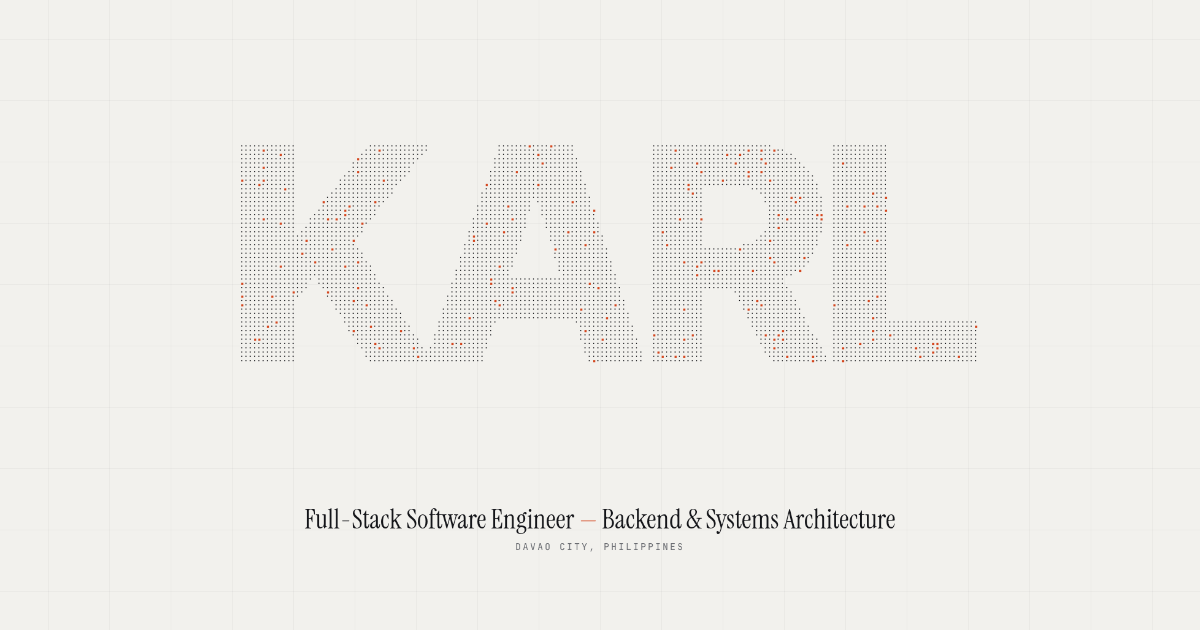
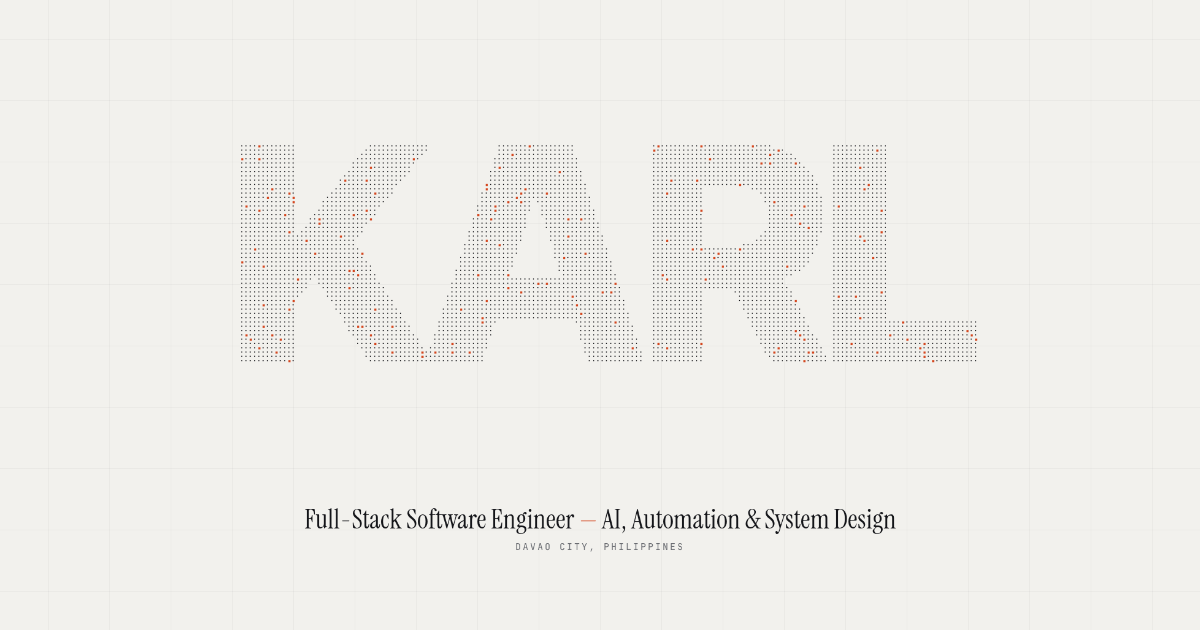
Reposition: AI, automation & system design
- Tagline, bio, particle words (SYSTEMS / AUTOMATE / AI), link previews and
  structured data now lead with AI, automation and system design
- Syncro: AI voice receptionist prototype (LiveKit, Deepgram, OpenAI tool calling)
  and the Dialogflow booking chatbot; automated multi-client delivery
- Skills regrouped: AI & Automation, System Design, Services & APIs, …

Changed region(s): [[0.4933, 0.8143, 0.74, 0.8444]]

diff --git a/js/content.js b/js/content.js
@@ -8,16 +8,16 @@
 window.CONTENT = {
   name: { first: 'Karl', middle: 'Daven', last: 'Talib', full: 'Karl Daven P. Talib' },
   role: 'Full-Stack Software Engineer',
-  focus: 'Backend & Systems Architecture',
+  focus: 'AI, Automation & System Design',
   location: 'Davao City, Philippines',
   email: 'pioloulo123@gmail.com',
   phone: '+63 916 154 2709',
 
   // words the particle name cycles through when clicked
-  words: ['KARL', 'BACKEND', 'SYSTEMS', 'TALIB'],
+  words: ['KARL', 'SYSTEMS', 'AUTOMATE', 'AI', 'TALIB'],
 
   photo: 'assets/portrait.webp',
-  bio: 'Full-stack engineer who mostly lives in the backend. I architect multi-tenant platforms, wire up APIs and webhooks, design relational data, and keep the servers running — healthcare, CRM, and business systems built on Laravel, Filament, Livewire, Next.js, React and Supabase.',
+  bio: 'Full-stack engineer who designs systems and automates the work around them. I architect multi-tenant platforms, connect them through APIs, webhooks and workflow automation, and bring AI into both the products and the way I build them — healthcare, CRM and business systems on Laravel, Filament, Next.js and Supabase.',
 
   links: {
     github: 'https://github.com/Kahariel',
@@ -46,6 +46,7 @@ window.CONTENT = {
         'Led architecture of healthcare platforms: dental practice management & diagnostic imaging',
         'Tenant-aware data access, auth, RBAC, REST APIs, webhooks, automated workflows',
         'Server-driven interfaces with Laravel, Livewire and Filament',
+        'Prototyped an AI voice receptionist that reads and manages appointments through the platform API',
         'Ran VPS infrastructure on aaPanel — deploys, databases, domains, SSL',
       ],
     },
@@ -72,13 +73,15 @@ window.CONTENT = {
   projects: [
     {
       name: 'Syncro',
-      kicker: 'Dental practice management · EHR',
+      kicker: 'Dental practice platform · EHR · AI',
       year: '2025 — now',
       role: 'Co-lead engineer',
       status: 'In production at 7 dental clinics',
-      summary: 'Web-based clinic management system for single and multi-branch dental practices — patient records, appointments, prescriptions, lab reports, billing, insurance, and SMS/email campaigns — shipped to seven clinics from one codebase.',
+      summary: 'Web-based clinic management system for single and multi-branch dental practices — patient records, appointments, prescriptions, lab reports, billing, insurance, and SMS/email campaigns — shipped to seven clinics from one codebase, with AI booking live and an AI voice receptionist in development.',
       highlights: [
-        'Branch-per-client delivery: a GitHub Actions workflow merges main into every clinic\'s branch, with a dry-run mode that checks for conflicts before pushing',
+        'Automated multi-client delivery: a GitHub Actions workflow merges main into every clinic\'s branch, with a dry-run mode that checks for conflicts before pushing',
+        'AI voice receptionist, a prototype I built: a LiveKit voice agent with Deepgram speech-to-text tuned on dental vocabulary and an OpenAI model that calls the platform API as tools to look up and manage appointments',
+        'Dialogflow booking chatbot on the clinic site — doctor lists, open slots, booking and cancellation through a Laravel webhook',
         'Four-tier subscription system (Freemium → Premium): a SubscriptionService and middleware gate features and enforce user, patient and appointment limits',
         'Company-scoped data access — middleware binds each request to a company and blocks route-model access across companies',
         'SmartChart / SmartNote: interactive tooth charting with a diagnosis-aware treatment picker and a draft → finalize workflow with permission enforcement',
@@ -87,7 +90,7 @@ window.CONTENT = {
         'Queued SMS (Twilio, Plivo) and email campaign jobs; Excel bulk import for patients, medicines and diagnoses',
       ],
       facts: [['Clinics', '7'], ['Migrations', '134'], ['Models', '60+']],
-      stack: ['Laravel', 'PHP', 'MySQL', 'Spatie Permission', 'Queues', 'DomPDF', 'Twilio', 'GitHub Actions'],
+      stack: ['Laravel', 'PHP', 'MySQL', 'OpenAI API', 'LiveKit Agents', 'Deepgram', 'Dialogflow', 'Queues', 'GitHub Actions', 'Twilio'],
       image: 'assets/projects/syncro.webp',
       live: null,
       repo: null,
@@ -118,13 +121,13 @@ window.CONTENT = {
     },
     {
       name: 'SMB Solutions CRM',
-      kicker: 'B2B & B2C CRM · built with Lovable',
+      kicker: 'CRM · AI-built with Lovable · automation',
       year: '2026',
       role: 'Full-stack engineer',
       status: null,
       summary: 'CRM supporting B2B and B2C client workflows — customer management, sales and operational processes — connected to the tools the business already runs on.',
       highlights: [
-        'Built with Lovable, with the interface wired to backend services, APIs and external platforms',
+        'Built AI-first with Lovable, with the generated interface wired to backend services, APIs and external platforms',
         'Integrated with Zapier, PandaDoc and Notion through APIs, webhooks and automated workflows',
         'Automations for data synchronisation, document workflows and process triggers that replaced manual operational work',
         'Translated business requirements into customer-management, sales and operations flows',
@@ -190,7 +193,7 @@ window.CONTENT = {
         'Firestore security rules separating public storefront reads from admin-only writes; guest orders are create-only',
         'Admin CMS for the hero slideshow and banners, drag-to-reorder with dnd-kit, and a revenue dashboard',
         'Cloudinary image delivery, EmailJS order notifications, and SEO: sitemap, robots and generated Open Graph images',
-        'Feature-branch workflow with pull-request reviews',
+        'AI-assisted development: agent guidelines (AGENTS.md / CLAUDE.md) live in the repo, alongside a feature-branch and pull-request workflow',
       ],
       facts: [['Hosting', 'Vercel'], ['Database', 'Firestore']],
       stack: ['Next.js', 'TypeScript', 'Firebase', 'Cloudinary', 'Tailwind CSS'],
@@ -236,9 +239,9 @@ window.CONTENT = {
    * The same values work as shareable links: yoursite.com/#work/syncro
    */
   tour: [
-    { at: 'index', title: 'Karl Daven Talib', text: 'Full-stack engineer, mostly backend. This site is a map — the tour drives, or drag anywhere to explore on your own.' },
+    { at: 'index', title: 'Karl Daven Talib', text: 'Full-stack engineer focused on AI, automation and system design. This site is a map — the tour drives, or drag anywhere to explore on your own.' },
     { at: 'experience', title: 'Experience', text: 'CTO at Syncro, full-stack at SMB Solutions, and freelance since 2023. The cards can be dragged around the desk.' },
-    { at: 'work/syncro', title: 'Syncro', text: 'Dental practice platform in production at 7 clinics, shipped from one codebase with automated per-clinic branches.' },
+    { at: 'work/syncro', title: 'Syncro', text: 'Dental practice platform in production at 7 clinics — automated per-clinic delivery, AI booking, and an AI voice receptionist in development.' },
     { at: 'work/one-shot-imaging', title: 'One Shot Imaging', text: 'Clinic operations with real-time handoff between the front desk and the imaging room. Live since October 2026; multi-tenant version in development.' },
     { at: 'work', title: 'Selected work', text: 'Seven projects — healthcare platforms, a CRM, a mobile app and its admin console, e-commerce and a kiosk system. Each card lists the technical details.' },
     { at: 'stack', title: 'Stack', text: 'Every tool, grouped by domain and linked to the projects that used it. Select any node to inspect it.' },
@@ -246,10 +249,12 @@ window.CONTENT = {
   ],
 
   skills: {
-    'Backend & APIs': ['PHP', 'Laravel', 'REST APIs', 'Webhooks', 'Livewire', 'Queues', 'RBAC', 'Laravel Reverb'],
-    'Frontend': ['Next.js', 'React', 'React Native', 'Expo', 'TypeScript', 'JavaScript', 'TALL Stack', 'AdminLTE', 'Filament'],
-    'Architecture & Data': ['Multi-Tenancy', 'Server-Driven UI', 'Database Design', 'MySQL', 'PostgreSQL', 'Supabase', 'Firebase'],
-    'Integrations': ['Zapier', 'PandaDoc', 'Notion', 'Third-Party APIs', 'Workflow Automation'],
-    'DevOps & Infra': ['Linux', 'Nginx', 'aaPanel', 'VPS Administration', 'Apache', 'Bash', 'Git', 'GitHub Actions'],
+    'AI & Automation': ['OpenAI API', 'LiveKit Agents', 'Deepgram', 'LLM Tool Calling', 'Dialogflow', 'AI-Assisted Development', 'Lovable', 'Workflow Automation', 'GitHub Actions'],
+    'System Design': ['Multi-Tenancy', 'Database Design', 'State Machines', 'Real-Time / WebSockets', 'Server-Driven UI', 'RBAC', 'Queues'],
+    'Services & APIs': ['PHP', 'Laravel', 'Python', 'REST APIs', 'Webhooks', 'Livewire', 'Laravel Reverb'],
+    'Frontend & Mobile': ['Next.js', 'React', 'React Native', 'Expo', 'TypeScript', 'JavaScript', 'TALL Stack', 'AdminLTE', 'Filament'],
+    'Data': ['MySQL', 'PostgreSQL', 'Supabase', 'Firebase'],
+    'Integrations': ['Zapier', 'PandaDoc', 'Notion', 'Third-Party APIs'],
+    'DevOps & Infra': ['Linux', 'Nginx', 'aaPanel', 'VPS Administration', 'Apache', 'Bash', 'Git'],
   },
 };

diff --git a/index.html b/index.html
@@ -4,7 +4,7 @@
 <meta charset="utf-8">
 <meta name="viewport" content="width=device-width, initial-scale=1">
 <title>Karl Daven Talib — Full-Stack Software Engineer</title>
-<meta name="description" content="Karl Daven Talib — full-stack software engineer focused on backend and systems architecture. Healthcare platforms, CRM and business systems with Laravel, Filament, Next.js and Supabase. Davao City, PH.">
+<meta name="description" content="Karl Daven Talib — full-stack software engineer focused on AI, automation and system design. Healthcare platforms, CRM and business systems with Laravel, Filament, Next.js and Supabase. Davao City, PH.">
 <link rel="canonical" href="https://kahariel.github.io/">
 <link rel="icon" href="favicon.svg" type="image/svg+xml">
 <meta name="theme-color" content="#f2f1ed">
@@ -13,17 +13,17 @@
 <meta property="og:type" content="profile">
 <meta property="og:site_name" content="Karl Daven Talib">
 <meta property="og:title" content="Karl Daven Talib — Full-Stack Software Engineer">
-<meta property="og:description" content="Backend & systems architecture. Healthcare platforms in production at 7 clinics, real-time clinic operations, CRM and mobile. Explore the portfolio map.">
+<meta property="og:description" content="AI, automation & system design. Healthcare platforms in production at 7 clinics, an AI voice receptionist, workflow automation, CRM and mobile. Explore the portfolio map.">
 <meta property="og:url" content="https://kahariel.github.io/">
 <meta property="og:image" content="https://kahariel.github.io/assets/og.png">
 <meta property="og:image:width" content="1200">
 <meta property="og:image:height" content="630">
-<meta property="og:image:alt" content="Karl Daven Talib — the name drawn in dots, with the role Full-Stack Software Engineer, Backend & Systems Architecture">
+<meta property="og:image:alt" content="Karl Daven Talib — the name drawn in dots, with the role Full-Stack Software Engineer, AI, Automation & System Design">
 <meta property="profile:first_name" content="Karl Daven">
 <meta property="profile:last_name" content="Talib">
 <meta name="twitter:card" content="summary_large_image">
 <meta name="twitter:title" content="Karl Daven Talib — Full-Stack Software Engineer">
-<meta name="twitter:description" content="Backend & systems architecture. Healthcare platforms, real-time clinic operations, CRM and mobile.">
+<meta name="twitter:description" content="AI, automation & system design. Healthcare platforms, AI voice agents, workflow automation, CRM and mobile.">
 <meta name="twitter:image" content="https://kahariel.github.io/assets/og.png">
 
 <!-- structured data: who this is, for search engines -->
@@ -33,14 +33,14 @@
   "@type": "Person",
   "name": "Karl Daven P. Talib",
   "jobTitle": "Full-Stack Software Engineer",
-  "description": "Full-stack software engineer focused on backend and systems architecture.",
+  "description": "Full-stack software engineer focused on AI, automation and system design.",
   "url": "https://kahariel.github.io/",
   "image": "https://kahariel.github.io/assets/portrait.webp",
   "sameAs": ["https://github.com/Kahariel", "https://ph.linkedin.com/in/karl-daven-talib-022047245"],
   "email": "mailto:pioloulo123@gmail.com",
   "address": { "@type": "PostalAddress", "addressLocality": "Davao City", "addressCountry": "PH" },
   "alumniOf": { "@type": "CollegeOrUniversity", "name": "Assumption College of Davao" },
-  "knowsAbout": ["Laravel", "PHP", "Filament", "Livewire", "Next.js", "React", "React Native", "Supabase", "MySQL", "PostgreSQL", "Multi-tenant architecture", "REST APIs", "Webhooks", "Linux", "Nginx"]
+  "knowsAbout": ["AI voice agents", "LLM tool calling", "OpenAI API", "Workflow automation", "System design", "Multi-tenant architecture", "Laravel", "PHP", "Python", "Next.js", "React", "React Native", "Supabase", "MySQL", "PostgreSQL", "REST APIs", "Webhooks", "GitHub Actions", "Linux"]
 }
 </script>
 <!-- fonts are self-hosted and deliberately NOT preloaded: on slow 4G, preloads delayed first
@@ -95,9 +95,9 @@
 <noscript>
   <article style="max-width:720px;margin:0 auto;padding:48px 20px;font-family:system-ui,sans-serif;line-height:1.6;position:relative;z-index:200;background:#faf9f6">
     <h1>Karl Daven P. Talib</h1>
-    <p>Full-Stack Software Engineer — Backend &amp; Systems Architecture · Davao City, Philippines</p>
+    <p>Full-Stack Software Engineer — AI, Automation &amp; System Design · Davao City, Philippines</p>
     <p><a href="mailto:pioloulo123@gmail.com">pioloulo123@gmail.com</a> · +63 916 154 2709</p>
-    <p>This portfolio is an interactive map and needs JavaScript. Selected work: Syncro (dental practice platform in production at 7 clinics),
+    <p>This portfolio is an interactive map and needs JavaScript. Selected work: Syncro (dental practice platform in production at 7 clinics, with an AI voice receptionist in development),
       One Shot Imaging (real-time clinic operations), SMB Solutions CRM, BloodSeek (mobile app) and BloodSeek Admin, KLNW (e-commerce), PiStamp (library attendance).</p>
   </article>
 </noscript>

diff --git a/js/signal.js b/js/signal.js
@@ -195,6 +195,7 @@ window.Signal = function (zone, C) {
     'webhook.received tenant=dental_07', 'queue.job processed InvoiceSync', 'rbac.check role=clinician ✓',
     'zapier → pandadoc doc.created', 'tenant.resolve oneshot_davao', 'notion.page.updated',
     'nginx 200 GET /api/v1/patients', 'livewire.hydrate PatientJourney', 'ssl.renew ok',
+    'agent.tool get_today_appointments ✓', 'stt.keyterms loaded dental vocabulary', 'actions propagate-main → 7 clinic branches',
   ];
   setInterval(() => { if (Plane.visible(zone)) log(ambient[(Math.random() * ambient.length) | 0]); }, 1400);
 

diff --git a/README.md b/README.md
@@ -1,5 +1,7 @@
 # Karl Daven Talib — Portfolio
 
+Full-stack software engineer focused on **AI, automation and system design**.
+
 **Live:** https://kahariel.github.io/
 
 An interactive, map-style portfolio: drag to move, scroll or pinch to zoom, or take the guided tour.
